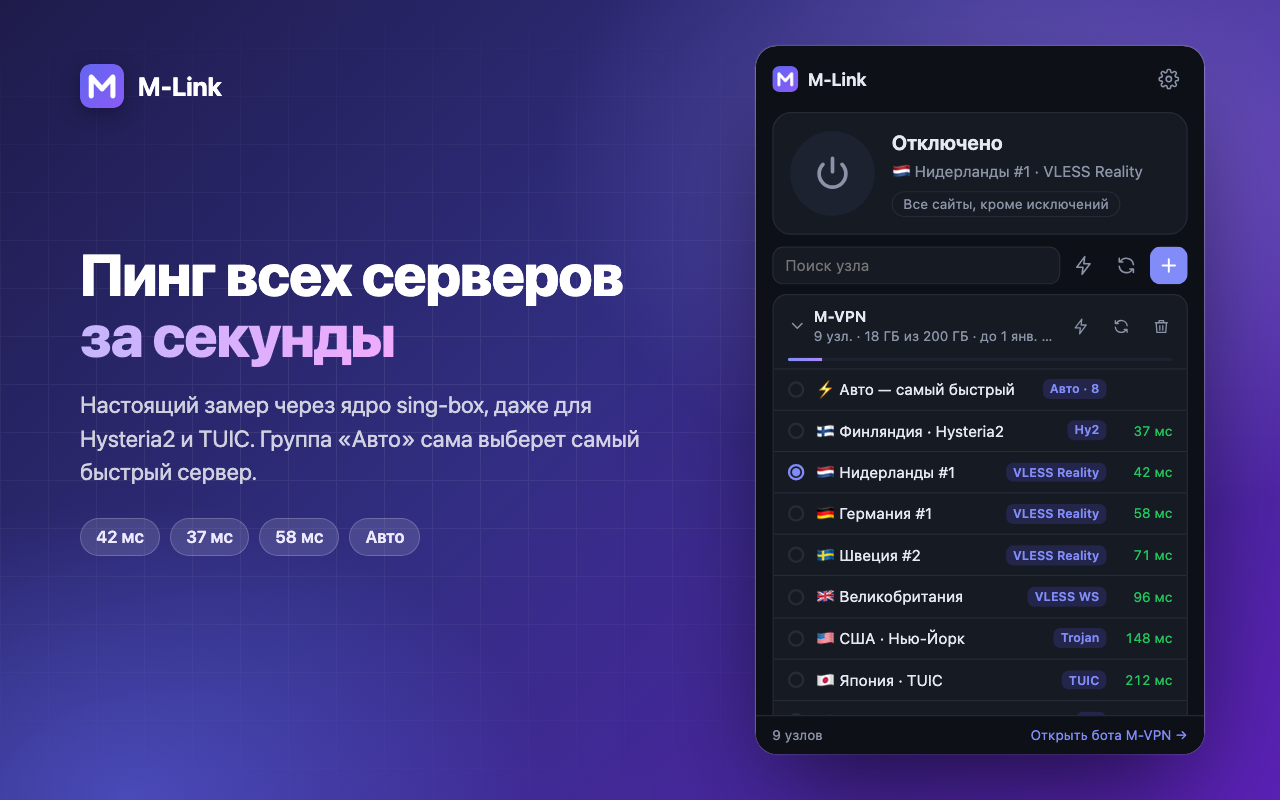
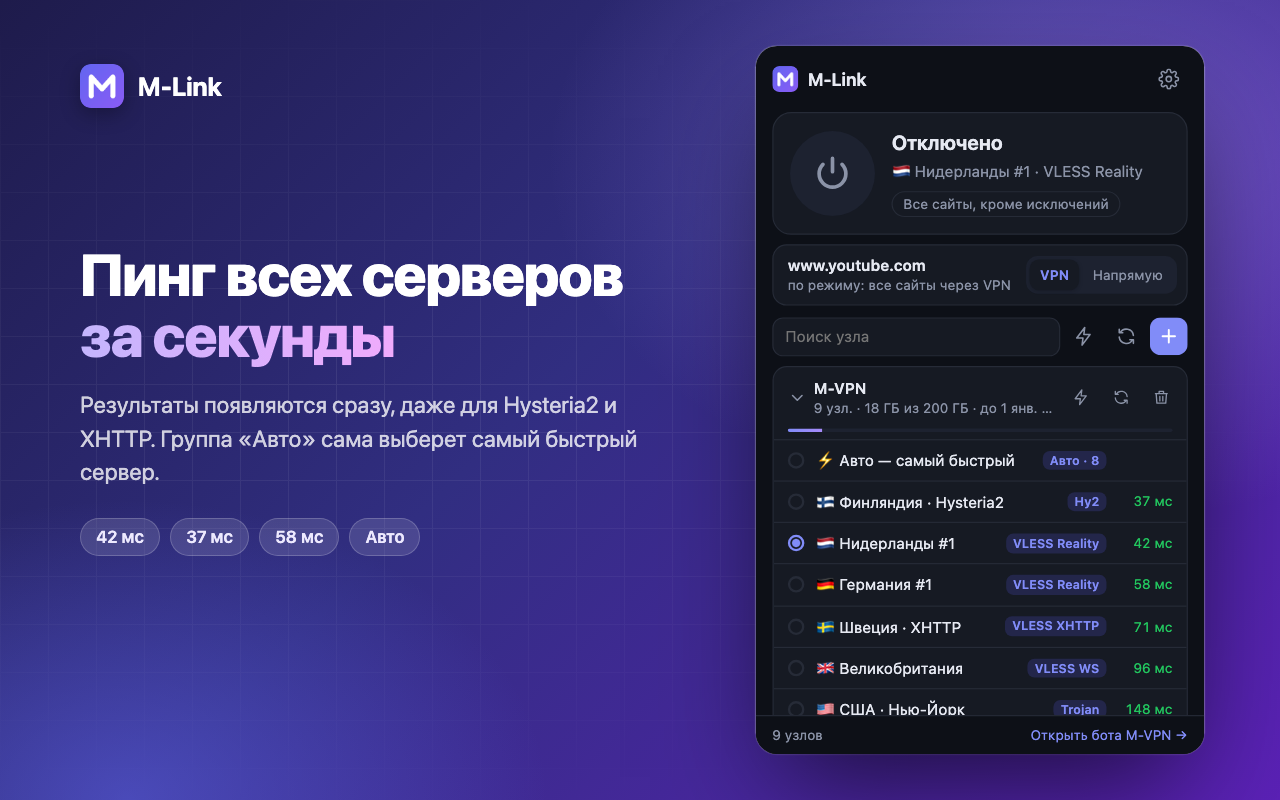
English store images; refresh Russian ones for the 1.1 interface
- store/art.html is bilingual (?lang=en); render.sh writes Russian images to
  store/images/ and English ones to store/images/en/.
- Slides updated for 1.1: site switch, live speed, XHTTP, leak protection,
  self-updating helper. Panel names removed from captions.
- Preview: English demo data, fake live speed, no transitions in screenshot
  mode (a frame could catch a half-finished animation).
- English settings hint no longer shows Russian domain examples.

Changed region(s): [[0.5938, 0.3125, 0.9375, 0.9062], [0.0625, 0.5, 0.5, 0.625]]

diff --git a/store/art.html b/store/art.html
@@ -4,7 +4,7 @@
 <meta charset="utf-8">
 <title>M-Link store art</title>
 <!-- Макеты картинок для Chrome Web Store. Открывать через tests/serve.py:
-     /store/art.html?kind=s1..s5 (1280x800), small (440x280), marquee (1400x560).
+     /store/art.html?kind=s1..s5 (1280x800), small (440x280), marquee (1400x560); &lang=en — английская версия.
      Рендер в файлы: sh store/render.sh -->
 <style>
   :root { --w: 1280px; --h: 800px; }
@@ -69,51 +69,100 @@
 <div class="grid-bg"></div>
 <div id="root"></div>
 <script>
+const params = new URLSearchParams(location.search);
+const LANG = params.get('lang') === 'en' ? 'en' : 'ru';
+document.documentElement.lang = LANG;
 const ICON = '../extension/icons/128.png';
-const PROTOS = ['VLESS', 'Reality', 'Hysteria2', 'VMess', 'Trojan', 'Shadowsocks', 'TUIC'];
+const PROTOS = ['VLESS', 'Reality', 'XHTTP', 'Hysteria2', 'VMess', 'Trojan', 'Shadowsocks', 'TUIC'];
 const chips = (list) => `<div class="chips">${list.map((c) => `<span class="chip">${c}</span>`).join('')}</div>`;
 const brand = `<div class="brand"><img src="${ICON}" alt="">M-Link</div>`;
-const popup = (params) => `<div class="popup-wrap"><iframe src="../tests/preview.html?bare=1&demo=1&${params}"></iframe></div>`;
+const popup = (p) => `<div class="popup-wrap"><iframe src="../tests/preview.html?bare=1&demo=1&ui=${LANG}&${p}"></iframe></div>`;
 const svg = (d) => `<svg viewBox="0 0 24 24" width="26" height="26" fill="none" stroke="#fff" stroke-width="2" stroke-linecap="round" stroke-linejoin="round">${d}</svg>`;
+
+// Тексты слайдов на двух языках. Протоколы — только в чипах и обычных фразах, без длинных перечней.
+const TEXT = {
+  ru: {
+    s1h: 'Твои VPN-подписки — <em>прямо в браузере</em>',
+    s1p: 'Вставь ссылку на подписку, выбери страну и подключайся одним нажатием.',
+    s2h: 'Пинг всех серверов<br><em>за секунды</em>',
+    s2p: 'Результаты появляются сразу, даже для Hysteria2 и XHTTP. Группа «Авто» сама выберет самый быстрый сервер.',
+    s2c: ['42 мс', '37 мс', '58 мс', 'Авто'],
+    s3h: 'Сам решай, какие сайты <em>идут через VPN</em>',
+    s3p: 'Все сайты, все кроме российских или только выбранные. Открытый сайт переключается одной кнопкой.',
+    s3c: ['Все сайты', 'Кроме .ru и .рф', 'Только выбранные'],
+    s4h: 'Подходит <em>любая подписка</em>',
+    s4p: 'Ссылки vless:// и hy2://, base64, JSON для sing-box и xray. Остаток трафика и срок подписки всегда на виду.',
+    s4c: ['base64', 'sing-box JSON', 'xray JSON', 'vless://', 'hy2://'],
+    s5h: 'Открытый код. <em>Ничего не собираем.</em>',
+    s5p: 'Подписки и настройки хранятся только на твоём компьютере. Исходники — на GitHub.',
+    c1t: 'Данные остаются у тебя', c1p: 'Никакой статистики и истории. Расширению не нужен доступ к содержимому сайтов.',
+    c2t: 'Защита от утечек', c2p: 'WebRTC не выдаст настоящий IP, а kill switch не пустит сайты мимо VPN.',
+    c3t: 'Windows, macOS, Linux', c3p: 'Помощник ставится одной командой и дальше обновляется сам.',
+    tag: 'VPN-подписки прямо в браузере',
+    mh: 'Твои VPN-подписки — <em>прямо в браузере</em>',
+    mp: 'Любые подписки, пинг серверов, выбор сайтов и защита от утечек.',
+  },
+  en: {
+    s1h: 'Your VPN subscriptions,<br><em>right in your browser</em>',
+    s1p: 'Paste your subscription link, pick a country and connect with one click.',
+    s2h: 'Ping every server<br><em>in seconds</em>',
+    s2p: 'Results show up right away, even for Hysteria2 and XHTTP. “Auto” picks the fastest server for you.',
+    s2c: ['42 ms', '37 ms', '58 ms', 'Auto'],
+    s3h: 'Choose which sites <em>go through the VPN</em>',
+    s3p: 'All sites, all except your list, or only the ones you pick. Switch the open site with one click.',
+    s3c: ['All sites', 'All except list', 'Selected only'],
+    s4h: 'Works with <em>any subscription</em>',
+    s4p: 'vless:// and hy2:// links, base64, sing-box and xray JSON. Traffic left and expiry date always in sight.',
+    s4c: ['base64', 'sing-box JSON', 'xray JSON', 'vless://', 'hy2://'],
+    s5h: 'Open source.<br><em>No tracking.</em>',
+    s5p: 'Subscriptions and settings stay on your computer. The source code is on GitHub.',
+    c1t: 'Your data stays with you', c1p: 'No statistics, no history. The extension can’t read the content of sites.',
+    c2t: 'Leak protection', c2p: 'WebRTC won’t reveal your real IP, and the kill switch keeps sites off the open internet.',
+    c3t: 'Windows, macOS, Linux', c3p: 'The helper installs with one command and then updates itself.',
+    tag: 'VPN subscriptions in your browser',
+    mh: 'Your VPN subscriptions,<br><em>right in your browser</em>',
+    mp: 'Any subscription, server ping, per-site routing and leak protection.',
+  },
+}[LANG];
 
 const slides = {
   s1: () => `<div class="left">${brand}
-      <h1>Твои VPN-подписки — <em>прямо в браузере</em></h1>
-      <p class="sub">Вставь ссылку на подписку, выбери страну и подключайся одним нажатием.</p>
+      <h1>${TEXT.s1h}</h1>
+      <p class="sub">${TEXT.s1p}</p>
       ${chips(PROTOS)}</div>${popup('state=on')}`,
   s2: () => `<div class="left">${brand}
-      <h1>Пинг всех серверов<br><em>за секунды</em></h1>
-      <p class="sub">Настоящий замер через ядро sing-box, даже для Hysteria2 и TUIC. Группа «Авто» сама выберет самый быстрый сервер.</p>
-      ${chips(['42 мс', '37 мс', '58 мс', 'Авто'])}</div>${popup('state=off')}`,
+      <h1>${TEXT.s2h}</h1>
+      <p class="sub">${TEXT.s2p}</p>
+      ${chips(TEXT.s2c)}</div>${popup('state=off')}`,
   s3: () => `<div class="left">${brand}
-      <h1>Сам решай, какие сайты <em>идут через VPN</em></h1>
-      <p class="sub">Все сайты, все кроме российских или только выбранные. Сайты .ru и .рф по умолчанию открываются напрямую.</p>
-      ${chips(['Все сайты', 'Кроме .ru и .рф', 'Только выбранные'])}</div>${popup('view=settings')}`,
+      <h1>${TEXT.s3h}</h1>
+      <p class="sub">${TEXT.s3p}</p>
+      ${chips(TEXT.s3c)}</div>${popup('view=settings')}`,
   s4: () => `<div class="left">${brand}
-      <h1>Подходит <em>любая подписка</em></h1>
-      <p class="sub">Ссылки vless:// и hy2://, base64, JSON для sing-box и xray. Remnawave, Marzban, 3x-ui. Остаток трафика и срок подписки всегда на виду.</p>
-      ${chips(['base64', 'sing-box JSON', 'xray JSON', 'vless://', 'hy2://'])}</div>${popup('add=https://sub.m-vpn.example/k/Xa7fQ2pL9')}`,
+      <h1>${TEXT.s4h}</h1>
+      <p class="sub">${TEXT.s4p}</p>
+      ${chips(TEXT.s4c)}</div>${popup('add=https://sub.m-vpn.example/k/Xa7fQ2pL9')}`,
   s5: () => `<div class="left" style="width:600px">${brand}
-      <h1>Открытый код. <em>Ничего не собираем.</em></h1>
-      <p class="sub">Подписки и настройки хранятся только на твоём компьютере. Исходники — на GitHub.</p></div>
+      <h1>${TEXT.s5h}</h1>
+      <p class="sub">${TEXT.s5p}</p></div>
       <div class="cards">
         <div class="card"><div class="ic">${svg('<rect x="3" y="11" width="18" height="10" rx="2"/><path d="M7 11V7a5 5 0 0 1 10 0v4"/>')}</div>
-          <div><b>Данные остаются у тебя</b><span>Расширению не нужен доступ к сайтам. Никакой статистики.</span></div></div>
-        <div class="card"><div class="ic">${svg('<rect x="2" y="4" width="20" height="13" rx="2"/><path d="M8 21h8M12 17v4"/>')}</div>
-          <div><b>Windows, macOS, Linux</b><span>Помощник ставится одной командой, ядро sing-box уже внутри.</span></div></div>
+          <div><b>${TEXT.c1t}</b><span>${TEXT.c1p}</span></div></div>
         <div class="card"><div class="ic">${svg('<path d="M12 2 4 6v6c0 5 3.4 8.7 8 10 4.6-1.3 8-5 8-10V6l-8-4Z"/><path d="m9 12 2 2 4-4"/>')}</div>
-          <div><b>Браузер не останется без сети</b><span>Если соединение оборвалось, прокси сразу отключается.</span></div></div>
+          <div><b>${TEXT.c2t}</b><span>${TEXT.c2p}</span></div></div>
+        <div class="card"><div class="ic">${svg('<rect x="2" y="4" width="20" height="13" rx="2"/><path d="M8 21h8M12 17v4"/>')}</div>
+          <div><b>${TEXT.c3t}</b><span>${TEXT.c3p}</span></div></div>
       </div>`,
   small: () => `<div class="center">${brand}
-      <div class="tag">VPN-подписки прямо в браузере</div>
-      ${chips(['VLESS', 'Reality', 'Hysteria2', 'Trojan'])}</div>`,
+      <div class="tag">${TEXT.tag}</div>
+      ${chips(['VLESS', 'Reality', 'XHTTP', 'Hysteria2'])}</div>`,
   marquee: () => `<div class="left">${brand}
-      <h1>Твои VPN-подписки — <em>прямо в браузере</em></h1>
-      <p class="sub">VLESS, Reality, Hysteria2, Trojan, TUIC. Любые подписки, пинг серверов и выбор сайтов.</p></div>
+      <h1>${TEXT.mh}</h1>
+      <p class="sub">${TEXT.mp}</p></div>
       ${popup('state=on')}`,
 };
 
-const kind = new URLSearchParams(location.search).get('kind') || 's1';
+const kind = params.get('kind') || 's1';
 const sizes = { small: [440, 280], marquee: [1400, 560] };
 const [w, h] = sizes[kind] || [1280, 800];
 document.documentElement.style.setProperty('--w', w + 'px');

diff --git a/tests/preview.html b/tests/preview.html
@@ -1,7 +1,9 @@
 <!doctype html><meta charset="utf-8"><title>popup preview</title>
 <link rel="stylesheet" href="../extension/popup.css">
 <style>html{background:#888}body{margin:20px auto;box-shadow:0 10px 40px rgba(0,0,0,.4)}
-html.bare{background:transparent}html.bare body{margin:0;box-shadow:none}</style>
+html.bare{background:transparent}html.bare body{margin:0;box-shadow:none}
+/* для скриншотов: без анимаций, иначе кадр может поймать середину перехода */
+html.bare *,html.bare *::before,html.bare *::after{transition:none!important}</style>
 <script type="module">
 // Заглушка chrome.* для просмотра popup вне расширения.
 //   ?empty=1           — пустое состояние
@@ -12,32 +14,38 @@ html.bare{background:transparent}html.bare body{margin:0;box-shadow:none}</style
 //   ?view=settings     — сразу открыть настройки
 //   ?add=<текст>       — открыть панель добавления с этим текстом
 //   ?bare=1            — без серого фона и тени (для вставки в iframe)
+//   ?ui=en             — язык браузера (английский интерфейс и английские демо-данные)
 import { parseSubscription, parseLink } from '../extension/lib/parser.js';
 const q = new URLSearchParams(location.search);
 if (q.get('bare')) document.documentElement.classList.add('bare');
 
+const en = (q.get('ui') || 'ru').startsWith('en');
 let local;
 let connectedName;
 if (q.get('demo')) {
+  // [ссылка, имя по-русски, имя по-английски, пинг]
   const links = [
-    ['vless://u@1.1.1.1:443?security=reality&pbk=K&sid=1&sni=a.com&flow=xtls-rprx-vision', '🇳🇱 Нидерланды #1', 42],
-    ['hy2://p@2.2.2.2:443?sni=b.com', '🇫🇮 Финляндия · Hysteria2', 37],
-    ['vless://u@1.1.1.2:443?security=reality&pbk=K&sid=1&sni=a.com&flow=xtls-rprx-vision', '🇩🇪 Германия #1', 58],
-    ['vless://u@1.1.1.5:443?security=reality&pbk=K&sid=1&sni=a.com&type=grpc&serviceName=g', '🇸🇪 Швеция #2', 71],
-    ['vless://u@1.1.1.3:443?security=tls&type=ws&path=/ws', '🇬🇧 Великобритания', 96],
-    ['trojan://p@3.3.3.3:443?sni=c.com', '🇺🇸 США · Нью-Йорк', 148],
-    ['tuic://a:b@t.com:443?sni=t.com', '🇯🇵 Япония · TUIC', 212],
-    ['ss://YWVzLTI1Ni1nY206cGFzcw@5.6.7.8:8388', '🇹🇷 Турция', 305],
+    ['vless://u@1.1.1.1:443?security=reality&pbk=K&sid=1&sni=a.com&flow=xtls-rprx-vision', '🇳🇱 Нидерланды #1', '🇳🇱 Netherlands #1', 42],
+    ['hy2://p@2.2.2.2:443?sni=b.com', '🇫🇮 Финляндия · Hysteria2', '🇫🇮 Finland · Hysteria2', 37],
+    ['vless://u@1.1.1.2:443?security=reality&pbk=K&sid=1&sni=a.com&flow=xtls-rprx-vision', '🇩🇪 Германия #1', '🇩🇪 Germany #1', 58],
+    ['vless://u@1.1.1.6:443?security=reality&pbk=K&sid=1&sni=a.com&type=xhttp&path=%2F', '🇸🇪 Швеция · XHTTP', '🇸🇪 Sweden · XHTTP', 71],
+    ['vless://u@1.1.1.3:443?security=tls&type=ws&path=/ws', '🇬🇧 Великобритания', '🇬🇧 United Kingdom', 96],
+    ['trojan://p@3.3.3.3:443?sni=c.com', '🇺🇸 США · Нью-Йорк', '🇺🇸 USA · New York', 148],
+    ['tuic://a:b@t.com:443?sni=t.com', '🇯🇵 Япония · TUIC', '🇯🇵 Japan · TUIC', 212],
+    ['ss://YWVzLTI1Ni1nY206cGFzcw@5.6.7.8:8388', '🇹🇷 Турция', '🇹🇷 Turkey', 305],
   ];
-  const nodes = links.map(([l, name]) => ({ ...parseLink(l + '#x'), name }));
-  const auto = { id: 'auto', name: '⚡ Авто — самый быстрый', type: 'urltest', label: 'Авто · 8', server: '', port: 0,
-    outbound: { type: 'urltest', outbounds: [] }, members: [] };
-  const latency = Object.fromEntries(nodes.map((n, i) => [n.id, links[i][2]]));
+  const nodes = links.map(([l, ru, enName]) => ({ ...parseLink(l + '#x'), name: en ? enName : ru }));
+  const auto = { id: 'auto', name: en ? '⚡ Auto — fastest server' : '⚡ Авто — самый быстрый', type: 'urltest', label: 'Авто · 8', server: '', port: 0,
+    outbound: { type: 'urltest', outbounds: [] }, members: new Array(8).fill({}) };
+  const latency = Object.fromEntries(nodes.map((n, i) => [n.id, links[i][3]]));
   local = {
     subs: [{ id: 's1', url: 'https://sub.example/abc', name: 'M-VPN', nodes: [auto, ...nodes], updatedAt: Date.now() - 20 * 60e3,
       userinfo: { upload: 1.6e9, download: 17.2e9, total: 200 * 2 ** 30, expire: 1830297600 } }],
     manual: [], selectedId: nodes[0].id, latency,
-    settings: { mode: 'except', exceptList: 'ru\nрф\nsu\nby', onlyList: '', port: 10808, updateHours: 12, userAgent: 'M-Link/1.0' },
+    settings: {
+      mode: 'except', exceptList: en ? 'mybank.com\nlocal-news.com\nmail.example.org' : 'ru\nрф\nsu\nby', onlyList: '', port: 10808, updateHours: 12,
+      userAgent: 'M-Link/1.1.0', webrtcProtect: true, killSwitch: false, lang: 'auto', siteRules: {},
+    },
   };
   connectedName = nodes[0].name;
 } else {
@@ -64,9 +72,15 @@ const session = { status: st === 'on' ? { state: 'on', nodeName: connectedName, 
   : { state: 'off' }, testing: null };
 const area = (data) => ({ get: async (d) => ({ ...d, ...data }), set: async () => {} });
 const noHelper = { ok: true, installed: false, code: 'no_helper', error: 'Помощник не установлен.' };
-const helperOk = { ok: true, installed: true, version: q.get('oldhelper') ? '0.1.0' : '1.0.0', core: '1.14.4',
-  corePath: '~/Library/Application Support/MLink/sing-box', outdated: !!q.get('oldhelper'),
-  latest: q.get('update') ? '1.1.0' : '1.0.0', updateAvailable: !!q.get('update') };
+const helperOk = { ok: true, installed: true, version: q.get('oldhelper') ? '0.1.0' : '1.1.0', core: '1.14.4', xray: '26.11.9',
+  corePath: '~/Library/Application Support/MLink/sing-box', outdated: !!q.get('oldhelper'), canSelfUpdate: !q.get('oldhelper'),
+  latest: q.get('update') ? '1.2.0' : '1.1.0', updateAvailable: !!q.get('update') };
+// Демо-скорость: счётчики растут примерно на 4,6 МБ/с вниз и 180 КБ/с вверх.
+const t0 = Date.now();
+const fakeStats = () => {
+  const s = (Date.now() - t0) / 1000;
+  return { ok: true, available: true, down: Math.round(s * 4.6 * 2 ** 20), up: Math.round(s * 180 * 1024), at: Date.now() };
+};
 window.chrome = {
   storage: { local: area(local), session: area(session), onChanged: { addListener() {} } },
   tabs: { query: async () => [{ url: q.get('tab') || 'https://www.youtube.com/watch?v=1' }] },
@@ -74,7 +88,8 @@ window.chrome = {
   runtime: {
     getManifest: () => ({ version: '1.1.0' }),
     getPlatformInfo: async () => ({ os: q.get('os') || 'mac', arch: 'arm64' }),
-    sendMessage: async (m) => (m.type === 'helperInfo' ? (q.get('nohelper') ? noHelper : helperOk)
+    sendMessage: async (m) => (m.type === 'stats' ? fakeStats()
+      : m.type === 'helperInfo' ? (q.get('nohelper') ? noHelper : helperOk)
       : q.get('nohelper') && ['test', 'connect', 'add', 'updateAll'].includes(m.type)
         ? { ok: false, code: 'no_helper', error: 'Помощник не установлен.' }
         : { ok: true, added: 0, tested: 0 }),

diff --git a/extension/lib/i18n-en.js b/extension/lib/i18n-en.js
@@ -173,7 +173,7 @@ export default {
   "Все, кроме списка": "All except list",
   "Только список": "List only",
   "Напрямую (без прокси)": "Direct (no proxy)",
-  "Домены или зоны, по одному на строку: ru, рф, gosuslugi.ru": "Domains or zones, one per line: ru, рф, gosuslugi.ru",
+  "Домены или зоны, по одному на строку: ru, рф, gosuslugi.ru": "Domains or zones, one per line: com, example.org, mybank.com",
   "Только эти сайты через прокси": "Only these sites through the proxy",
   "Поддомены включаются автоматически": "Subdomains are included automatically",
   "Локальный порт": "Local port",

diff --git a/store/listing.md b/store/listing.md
@@ -157,7 +157,11 @@ M-Link connects the browser to the user's own proxy servers. The user adds a sub
 
 ## Картинки
 
-- Значок магазина: `store/icon-128.png`
+- Значок магазина: `store/icon-128.png` (один на оба языка)
 - Скриншоты 1280×800: `store/images/screenshot-1.png` … `screenshot-5.png`
 - Маленькое рекламное изображение: `store/images/promo-small-440x280.png`
 - Очень большое рекламное изображение: `store/images/promo-marquee-1400x560.png`
+
+Английские версии тех же картинок лежат в `store/images/en/` с теми же именами. В кабинете их загружают в английскую карточку: «Описание в магазине» → выбрать язык English.
+
+Все картинки пересобираются командой `sh store/render.sh` (нужен Chrome).
